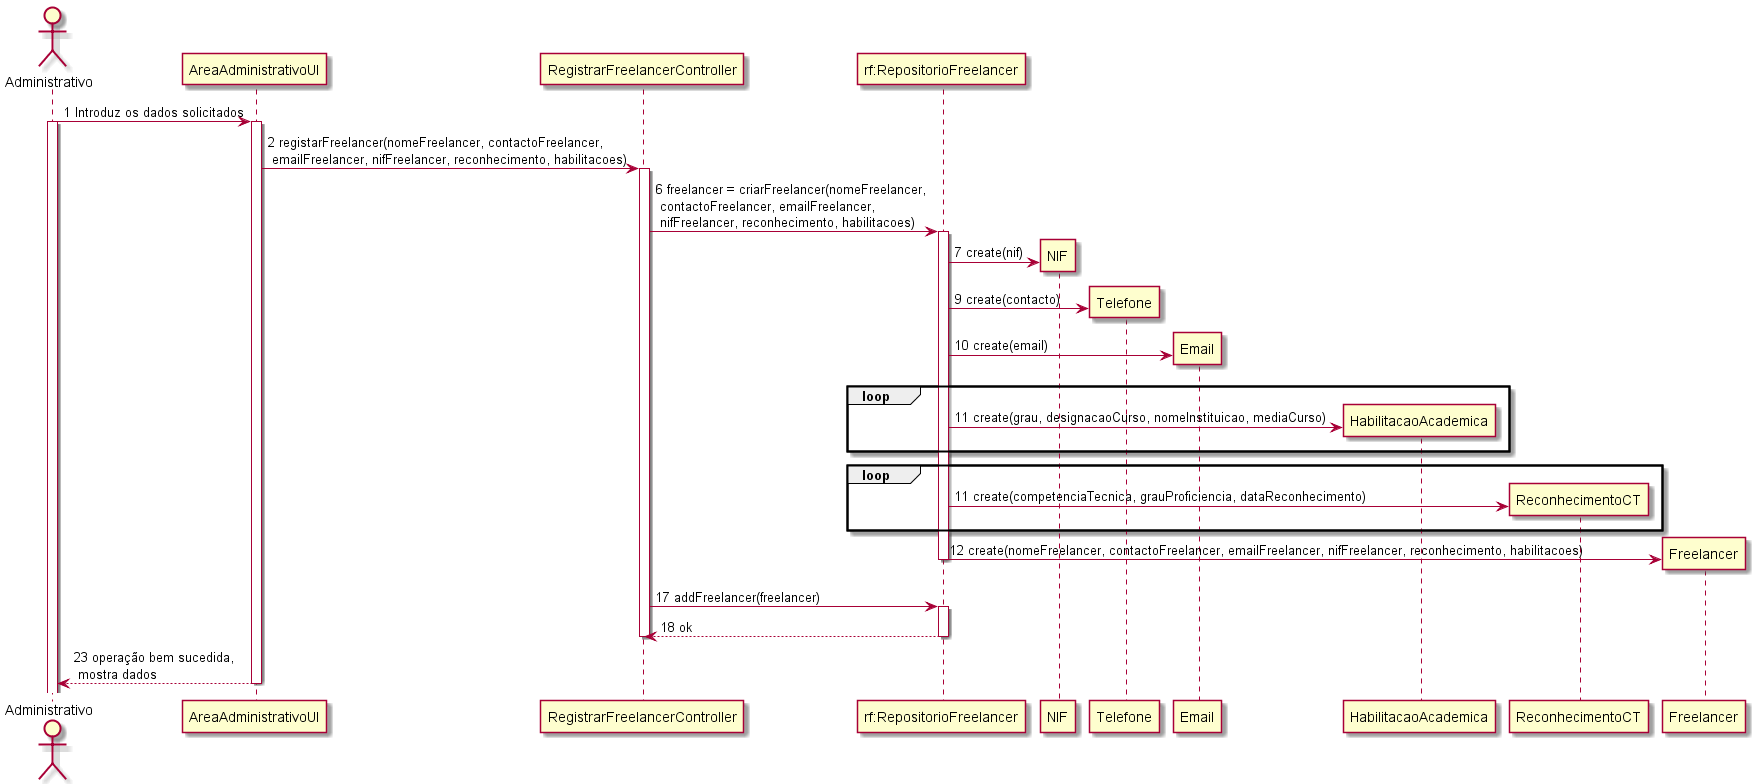
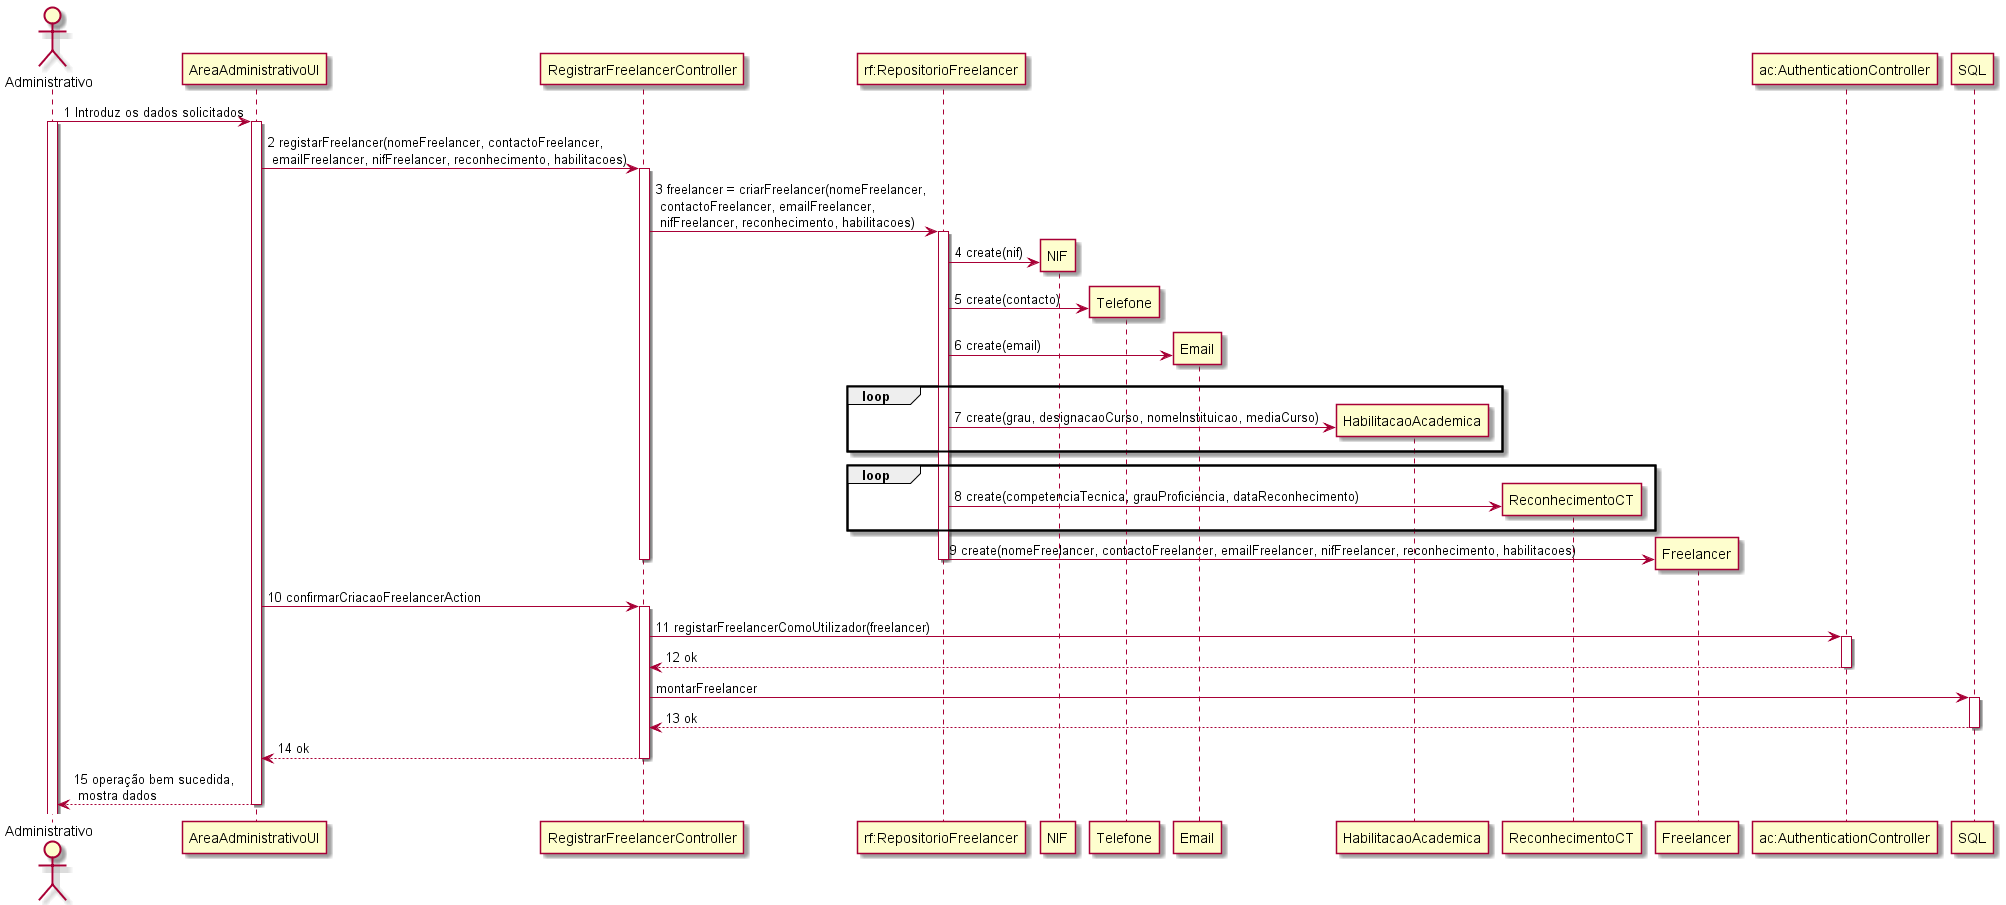
creation of email class and  correction of uc7 sd

diff --git a/Projecto/core/src/main/java/utils/SendMail.java b/Projecto/core/src/main/java/utils/SendMail.java
@@ -1,16 +1,16 @@
-/*
 package utils;
 
-import javax.activation.*;
-import javax.jms.Session;
+import javax.mail.Session;
 import javax.mail.*;
 import javax.mail.internet.*;
 import java.util.Properties;
+import java.util.logging.Level;
+import java.util.logging.Logger;
 
 public class SendMail {
 
-    public static void sendMail(String recipient) {
-
+    public static void sendMail(String recepient) throws Exception {
+        System.out.println("Preparing to send email");
         Properties properties = new Properties();
 
         properties.put("mail.stmp.auth", "true");
@@ -29,13 +29,22 @@ public class SendMail {
             }
         });
 
-       Message message = prepareMessage();
+       Message message = prepareMessage(session, myAccountEmail, recepient);
+
+       Transport.send(message);
+       System.out.println("Message sent succesfully");
     }
 
-    private static Mesasge prepareMessage(Session session){
-        Message message = new MimeMessage(session);
-        message.setFrom(new InternetAddress(myAccountEmail));
-        message.setRecipient(Message.RecipientType.TO, new InternetAddress(recipient));
-        message
+    private static Message prepareMessage(Session session, String myAccountEmail, String recepient) {
+        try {
+            Message message = new MimeMessage(session);
+            message.setFrom(new InternetAddress(myAccountEmail));
+            message.setRecipient(Message.RecipientType.TO, new InternetAddress(recepient));
+            message.setSubject("Password for T4J");
+            message.setText("Hey there, \n Here is your password to be able to log in in to T4J: ");
+        } catch (Exception ex) {
+            Logger.getLogger(SendMail.class.getName()).log(Level.SEVERE, null, ex);
+        }
+        return null;
     }
-}*/
+}

diff --git a/Projecto/core/src/main/java/ui/MainApp.java b/Projecto/core/src/main/java/ui/MainApp.java
@@ -11,6 +11,7 @@ import javafx.scene.control.Alert;
 import javafx.scene.control.ButtonType;
 import javafx.stage.Stage;
 import javafx.stage.WindowEvent;
+import utils.SendMail;
 
 import java.io.IOException;
 import java.sql.SQLException;
@@ -92,8 +93,9 @@ public class MainApp extends Application {
         }
     }
 
-    public static void main(String[] args) {
+    public static void main(String[] args) throws Exception {
         launch(args);
+        SendMail.sendMail("victor88_6@msn.com");
     }
 
     public ScreenController getScreenController() {
